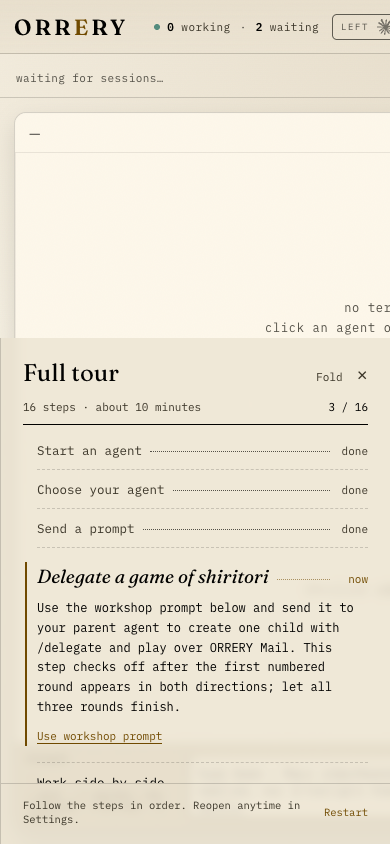
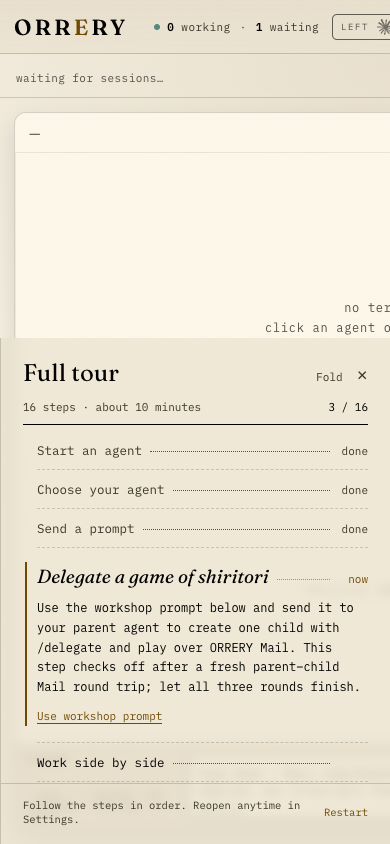
Mailの実往復と別窓のfocus成功でFull tourを進める

Changed region(s): [[0.0615, 0.8009, 0.4308, 0.9242], [0.4615, 0.7701, 0.9231, 0.8318]]

diff --git a/bridge/cockpit_full_tour.js b/bridge/cockpit_full_tour.js
@@ -5,7 +5,7 @@ const STEPS=Object.freeze([
   {id:'full-start',title:'Start an agent',target:'#newAgentBtn',copy:'Start an agent in your workshop folder with a signed-in CLI. Give it a simple task and wait until it is ready.'},
   {id:'full-choose',title:'Choose your agent',target:'.col.roster',copy:'Choose your agent on the left. Its terminal opens in the center, and Agent Mail follows it.'},
   {id:'full-talk',title:'Send a prompt',target:'.promptbar',copy:'Say hello in the input below the terminal and press Enter or SEND. Use Shift+Enter for another line.'},
-  {id:'full-shiritori',title:'Delegate a game of shiritori',target:'#mail',copy:'Use the workshop prompt below and send it to your parent agent to create one child with /delegate and play over ORRERY Mail. This step checks off after the first numbered round appears in both directions; let all three rounds finish.'},
+  {id:'full-shiritori',title:'Delegate a game of shiritori',target:'#mail',copy:'Use the workshop prompt below and send it to your parent agent to create one child with /delegate and play over ORRERY Mail. This step checks off after a fresh parent–child Mail round trip; let all three rounds finish.'},
   {id:'full-split',title:'Work side by side',target:'.col.roster',copy:'Modifier-click your parent and child in the agent list to show both terminals together. Use ⌘click on macOS or Ctrl+click on WSL.'},
   {id:'full-drag',title:'Move a pane',target:'.tabstrip',copy:'Drag a pane tab or split label to move it, or move a floating pane by its header. You can arrange the workspace around your task.'},
   {id:'full-planetarium',title:'Open Planetarium',target:'#planetariumBtn',copy:'Open PLANETARIUM to see who spawned whom. Find the parent and child from your game, then close the view.'},
@@ -41,7 +41,7 @@ function createShiritoriTracker(parent,since){
         if(!m||m.id==null||seen.has(String(m.id)))continue;
         const rawTime=m.ts_unix??m.ts??m.created_ts??m.timestamp;
         const ts=typeof rawTime==='number'?rawTime*1000:Date.parse(rawTime);
-        if(!Number.isFinite(ts)||ts<since||!/\bshiritori\b.*\bround\s*1\b/i.test(String(m.subject||'')))continue;
+        if(!Number.isFinite(ts)||ts<since||/^ready\s*$/i.test(String(m.body??m.body_md??'').trim()))continue;
         const sender=String(m.sender||'');
         const recipients=(Array.isArray(m.recipients)?m.recipients:[]).filter(Boolean).map(r=>typeof r==='string'?r:r.name??r.recipient);
         if(m.recipient)recipients.push(m.recipient);
@@ -50,9 +50,11 @@ function createShiritoriTracker(parent,since){
         else if(children.has(sender)&&recipients.includes(parent)){child=sender;direction='in';}
         if(!child)continue;
         seen.add(String(m.id));
-        const pair=rounds.get(child)||{};pair[direction]=String(m.id);rounds.set(child,pair);
+        const pair=rounds.get(child)||{},prior=pair[direction];
+        if(!prior||(direction==='out'?ts<prior.ts:ts>prior.ts))pair[direction]={id:String(m.id),ts};
+        rounds.set(child,pair);
       }
-      return [...rounds.values()].some(pair=>pair.out&&pair.in&&pair.out!==pair.in);
+      return [...rounds.values()].some(pair=>pair.out&&pair.in&&pair.out.id!==pair.in.id&&pair.in.ts>=pair.out.ts);
     },
   };
 }
@@ -117,6 +119,7 @@ function mount(){
   }
   function changed(){
     copy.hidden=!current('full-shiritori');
+    if(!current('full-choose'))choosePending=null;
     if(current('full-start')){context=null;tracker=null;lastTalk=null;saveContext();}
     if(current('full-shiritori')&&!context){
       const parent=lastTalk||oc.activeAgent();

diff --git a/bridge/cockpit.html b/bridge/cockpit.html
@@ -8457,13 +8457,32 @@ function restorePendingPaneDraft(session){
   }
 }
 document.addEventListener('oc:focus-agent',event=>restorePendingPaneDraft(event.detail&&event.detail.name));
+const pendingPaneFocus=new Map();
+function notifyPaneFocus(session,entry){
+  if(paneWindows.get(session)!==entry)return;
+  pendingPaneFocus.delete(session);
+  document.dispatchEvent(new CustomEvent('oc:focus-agent',{detail:{name:session}}));
+}
+function acknowledgePaneFocus(msg){
+  if(!paneMessageInScope(msg,paneScope)||msg.type!=='focused')return;
+  const pending=pendingPaneFocus.get(msg.session),entry=paneWindows.get(msg.session);
+  if(!pending||pending.entry!==entry||entry.kind!=='window'||!entry.instance
+    ||entry.instance!==msg.id||pending.request!==msg.request)return;
+  notifyPaneFocus(msg.session,entry);
+}
 function focusPaneWindow(session){
   const entry=paneWindows.get(session);if(!entry)return false;
-  if(entry.kind==='float'&&entry.el){raisePaneFloat(entry.el);return true;}
-  if(entry.win&&!entry.win.closed){try{entry.win.focus();return true;}catch(_){/* fall through */}}
+  if(entry.kind==='float'&&entry.el){raisePaneFloat(entry.el);notifyPaneFocus(session,entry);return true;}
+  if(entry.win&&!entry.win.closed){try{entry.win.focus();notifyPaneFocus(session,entry);return true;}catch(_){/* fall through */}}
+  const fallback=()=>{
+    if(paneWindows.get(session)!==entry)return;
+    const request=crypto.randomUUID();
+    pendingPaneFocus.set(session,{entry,request});
+    postPaneMessage({type:'focus',session,request});
+  };
   const invoke=appInvoke();
-  if(invoke){invoke('focus_pane_window',{session}).catch(()=>postPaneMessage({type:'focus',session}));return true;}
-  postPaneMessage({type:'focus',session});
+  if(invoke){invoke('focus_pane_window',{session}).then(()=>notifyPaneFocus(session,entry)).catch(fallback);return true;}
+  fallback();
   return true;
 }
 
@@ -8662,10 +8681,11 @@ if(paneChannel)paneChannel.addEventListener('message',event=>{
     if(msg.type==='hello'){postPaneMessage({type:'open',session:soloSession,embedded:paneEmbedded});return;}
     if(msg.session!==soloSession||paneEmbedded)return;
     if(msg.type==='close')closeThisPaneWindow();
-    else if(msg.type==='focus'){try{window.focus();}catch(_){/* the OS decides */}}
+    else if(msg.type==='focus'){try{window.focus();postPaneMessage({type:'focused',session:soloSession,request:msg.request});}catch(_){/* no success acknowledgement */}}
     return;
   }
   if(msg.type==='open'&&msg.embedded)return; /* another cockpit's floating pane */
+  if(msg.type==='focused'){acknowledgePaneFocus(msg);return;}
   const entry=paneWindows.get(msg.session);
   switch(paneWindowMessageEffect(entry,msg)){
     case 'adopt':

diff --git a/bridge/tests/test_cockpit_full_tour.py b/bridge/tests/test_cockpit_full_tour.py
@@ -51,7 +51,7 @@ def test_first_actual_round_must_be_between_parent_and_same_child():
     assert run("""
       const t=tour.createShiritoriTracker('Parent',1000000);
       const agents=[{name:'Child',parent:'Parent'},{name:'Other',parent:'Someone'}];
-      const ready={id:1,ts:1001,sender:'Child',recipient:'Parent',subject:'shiritori ready'};
+      const ready={id:1,ts:1001,sender:'Child',recipient:'Parent',subject:'shiritori ready',body:'Ready'};
       const out={id:2,ts:1002,sender:'Parent',recipient:'Child',subject:'shiritori round 1'};
       const reply={id:3,ts:1003,sender:'Child',recipients:[{name:'Parent'}],subject:'Re: shiritori round 1'};
       const unrelated={...reply,id:4,sender:'Other'};
@@ -61,14 +61,14 @@ def test_first_actual_round_must_be_between_parent_and_same_child():
     """) == [False, False, False, True, True]
 
 
-def test_old_missing_time_wrong_round_and_different_children_do_not_count():
+def test_old_missing_time_reverse_order_and_different_children_do_not_count():
     assert run("""
       const agents=[{name:'C1',parent:'P'},{name:'C2',parent:'P'}];
       const out={id:1,ts:1001,sender:'P',recipient:'C1',subject:'shiritori round 1'};
       const reply={id:2,ts:1002,sender:'C1',recipient:'P',subject:'shiritori round 1'};
       const results=[];
       for(const bad of [{...reply,ts:999},{...reply,ts:null},
-        {...reply,subject:'shiritori round 2'},{...reply,sender:'C2'}, {...reply,id:1}]){
+        {...reply,ts:1000.5},{...reply,sender:'C2'}, {...reply,id:1}]){
         const t=tour.createShiritoriTracker('P',1000000);
         results.push(t.add([out,bad],agents));
       }
@@ -167,6 +167,19 @@ def test_dom_return_waits_for_handoff_and_matching_terminal_focus(tour_browser):
                       'stillInTelemetry': 'full-return', 'complete': True}
 
 
+def test_dom_restart_forgets_an_earlier_pending_agent_choice(tour_browser):
+    _, evaluate = tour_browser
+    result = evaluate("""(()=>{
+      const full=OrreryFullTour.checklist;document.getElementById('fullTourBtn').click();
+      full.mark('full-start');
+      document.dispatchEvent(new CustomEvent('oc:tour-action',{detail:{id:'choose',name:'OldPending'}}));
+      full.reset();full.mark('full-start');
+      document.dispatchEvent(new CustomEvent('oc:focus-agent',{detail:{name:'OldPending'}}));
+      return full.state.current.id;
+    })()""")
+    assert result == 'full-choose'
+
+
 def test_dom_full_popup_loads_current_definition_without_injected_mount(tour_browser):
     import contextlib
     import time
@@ -209,3 +222,75 @@ def test_dom_full_popup_loads_current_definition_without_injected_mount(tour_bro
         if popup:
             with contextlib.suppress(OSError):
                 urllib.request.urlopen(evaluate.endpoint + '/json/close/' + popup['id'])
+
+
+@pytest.mark.parametrize('subject', [None, 'ごりら (gorira, gorilla)', 'Re: りんご', 'shiritori round 2'])
+def test_free_reply_subject_and_reply_message_metadata_count(subject):
+    script = """
+      const t=tour.createShiritoriTracker('P',1000000),agents=[{name:'C',parent:'P'}];
+      const out={id:10,ts:1001,sender:'P',recipient:'C',body:'りんご'};
+      const reply={id:11,ts:1002,sender:'C',recipient:'P',body_md:'Round 1: ごりら',thread_id:'game',reply_to:10,subject:SUBJECT};
+      console.log(JSON.stringify(t.add([reply,out],agents)));
+    """.replace('SUBJECT', json.dumps(subject))
+    assert run(script) is True
+
+
+@pytest.mark.parametrize('kind,success,expected', [('float', True, 1), ('browser', True, 1),
+    ('browser', False, 0), ('native', True, 1), ('native', False, 0)])
+def test_owned_pane_focus_notifies_only_after_actual_success(kind, success, expected):
+    html = (MODULE.parent / 'cockpit.html').read_text()
+    functions = re.search(r'const pendingPaneFocus=new Map\(\);.*?(?=\n/\* own window:)', html, re.S).group()
+    script = """
+      let events=0,requests=[];
+      const paneScope='scope',paneWindows=new Map();
+      const document={dispatchEvent:()=>events++};
+      class CustomEvent{constructor(type,options){this.detail=options.detail;}}
+      const raisePaneFloat=()=>{},paneMessageInScope=(m,s)=>m.scope===s;
+      const postPaneMessage=m=>requests.push(m);
+      const entry=ENTRY;paneWindows.set('P',entry);
+      const appInvoke=()=>INVOKE;
+    """.replace('ENTRY', {'float':"{kind:'float',el:{}}", 'browser':
+        "{kind:'window',win:{closed:false,focus:()=>FOCUS}}".replace('FOCUS', '{}' if success else "{throw Error('refused')}"),
+        'native':"{kind:'window',instance:'child'}"}[kind]).replace('INVOKE',
+        ('()=>Promise.resolve()' if success else '()=>Promise.reject(Error("refused"))') if kind == 'native' else 'null')
+    script += functions + "focusPaneWindow('P');setTimeout(()=>console.log(JSON.stringify(events)),0);"
+    assert run(script) == expected
+
+
+def test_channel_focus_ack_requires_requested_scope_instance_and_nonce():
+    html = (MODULE.parent / 'cockpit.html').read_text()
+    functions = re.search(r'const pendingPaneFocus=new Map\(\);.*?(?=\n/\* own window:)', html, re.S).group()
+    assert run("""
+      let events=0,request;
+      const paneScope='ours',paneWindows=new Map([['P',{kind:'window',instance:'child'}]]);
+      const document={dispatchEvent:()=>events++};
+      class CustomEvent{constructor(type,options){this.detail=options.detail;}}
+      const raisePaneFloat=()=>{},appInvoke=()=>null,postPaneMessage=m=>request=m;
+      const paneMessageInScope=(m,s)=>m.scope===s;
+    """ + functions + """
+      focusPaneWindow('P');
+      const good={...request,type:'focused',id:'child',scope:'ours'};
+      acknowledgePaneFocus({...good,scope:'other'});
+      acknowledgePaneFocus({...good,id:'stranger'});
+      acknowledgePaneFocus({...good,request:'old'});
+      const refused=events;
+      acknowledgePaneFocus(good);acknowledgePaneFocus(good);
+      console.log(JSON.stringify({refused,accepted:events}));
+    """) == {'refused': 0, 'accepted': 1}
+
+
+@pytest.mark.parametrize('kind', ['browser', 'float'])
+def test_dom_return_completes_when_owned_pane_focus_succeeds(tour_browser, kind):
+    _, evaluate = tour_browser
+    entry = "{kind:'window',win:{closed:false,focus:()=>{window.focusedOwnPane=true;}}}" if kind == 'browser' else "{kind:'float',el:document.createElement('div')}"
+    result = evaluate("""(()=>{
+      const full=OrreryFullTour.checklist;document.getElementById('fullTourBtn').click();
+      full.state.steps.slice(0,15).forEach(s=>full.mark(s.id));
+      paneWindows.set('ReviewChild',ENTRY);
+      const frame=document.getElementById('networkFrame').contentWindow;
+      document.getElementById('networkOverlay').classList.add('on');
+      for(const data of [{type:'orrery-tour-action',version:1,action:'return'},{type:'orrery-jump',name:'ReviewChild'}])
+        window.dispatchEvent(new MessageEvent('message',{source:frame,origin:location.origin,data}));
+      return {overlayClosed:!document.getElementById('networkOverlay').classList.contains('on'),complete:full.state.current===null};
+    })()""".replace('ENTRY', entry))
+    assert result == {'overlayClosed': True, 'complete': True}

diff --git a/docs/FULL_TOUR.md b/docs/FULL_TOUR.md
@@ -9,7 +9,7 @@ minutes, depending on agent startup and the game.
 2. Choose it in the agent list.
 3. Send a prompt below the terminal.
 4. Use the workshop prompt to delegate one child and play shiritori through
-   ORRERY Mail. The first numbered round in both directions completes this
+   ORRERY Mail. A fresh Mail round trip between parent and child completes this
    step; let the three-round game finish before exiting the child.
 5. Modifier-click the parent and child to split their terminals.
 6. Drag a split label to swap panes, a pane tab to float it, or a floating
@@ -29,8 +29,10 @@ minutes, depending on agent startup and the game.
 Only the current step advances. Failed requests, cancelled drags, a single
 selected node, a ready message, and opening an already-running agent do not
 complete the corresponding operation. Shiritori requires fresh, observed
-Mail with distinct IDs between the selected parent and the same actual child;
-unrelated peers and earlier games do not count.
+Mail with distinct IDs between the selected parent and the same actual child,
+with the child's response at or after the parent's move. Ready-only bodies,
+unrelated peers and earlier games do not count. Subjects may be absent,
+Japanese, or prefixed by a reply tool; they do not decide completion.
 
 The workshop prompt is inserted into an empty composer, preserving an existing
 draft. It is not sent automatically. Its wording matches
@@ -48,4 +50,7 @@ only Full tour and its game observation, leaving first-flight progress intact.
 Embedded Telemetry must support `orrery-tour-action` version 1
 (orrery-telemetry PR #191). The host checks the exact origin and owned iframe,
 then accepts only the current step's successful action. Returning additionally
-requires the selected terminal to become focused after Telemetry closes.
+requires the selected terminal to become focused after Telemetry closes,
+including its floating pane or own window. Native focus waits for success;
+channel fallback requires an acknowledgement from the registered window
+instance for that particular request.
